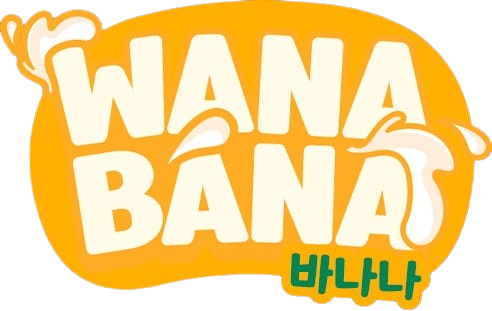
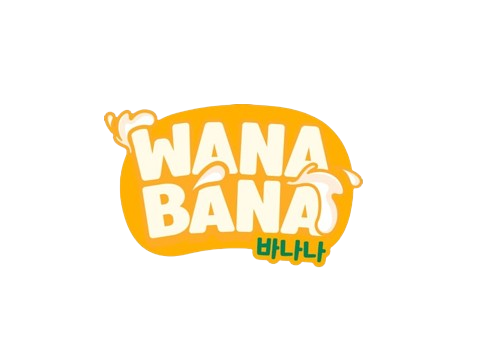
Editing Image

diff --git a/src/screens/BackgroundLoading.jsx b/src/screens/BackgroundLoading.jsx
@@ -9,7 +9,10 @@ const BackgroundLoading = () => {
         hidden={false}
         backgroundColor="#f7d200f8"
       />
-      <Image source={require('../assets/images/Picture_1.png')} />
+      <Image
+        source={require('../assets/images/Picture_1.png')}
+        style={{width: 350, height: 350}}
+      />
     </View>
   );
 };
